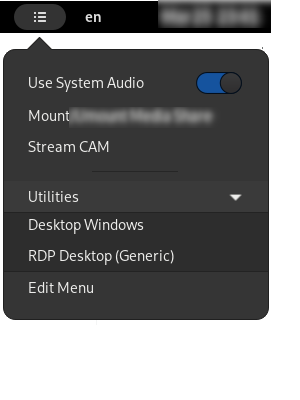
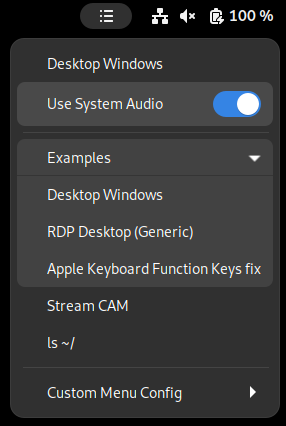
v5 - Add Config Reload, Settings Menu, Log View Spawning, Graceful JSON Parse Error Handling

diff --git a/custom-menu-panel@AndreaBenini/extension.js b/custom-menu-panel@AndreaBenini/extension.js
@@ -24,7 +24,7 @@
 /* exported init */
 
 const GETTEXT_DOMAIN = 'custom-menu-panel';
-const CONFIGURATION_FILE = '/.entries.json';
+const CONFIGURATION_FILE = '.entries.json';
 
 const { GObject, St } = imports.gi;
 
@@ -46,38 +46,94 @@ const LOGGER_INFO       = 0;
 const LOGGER_WARNING    = 1;
 const LOGGER_ERROR      = 2;
 
-
 const Indicator = GObject.registerClass(
-    class Indicator extends PanelMenu.Button {
-        _init() {
-            super._init(0.0, _('Custom Menu Panel Indicator'));
-            this.add_child(new St.Icon({
-                icon_name: 'view-list-bullet-symbolic',
-                style_class: 'system-status-icon',
-            }));
-            this._loadSetup();
-        }
+	class Indicator extends PanelMenu.Button {
+		_init() {
+				super._init(0.0, _('Custom Menu Panel Indicator'));
+				this.add_child(new St.Icon({
+						icon_name: 'view-list-bullet-symbolic',
+						style_class: 'system-status-icon',
+				}));
+				this._loadSetup();
+		}
 
-        /**
-         * LOAD Program settings from .entries.json file
-         */
-        _loadSetup() {
-            this.menu.removeAll();
-            // Loading configuration from file
-            this.configLoader = new Config.Loader();
-            try {
-                this.configLoader.loadConfig(GLib.get_home_dir() + CONFIGURATION_FILE);         // $HOME/.entries.json
-            } catch(e) {
-                this.configLoader.saveDefaultConfig(GLib.get_home_dir() + CONFIGURATION_FILE);  // create default entries
-            }
-            // Build the menu
-            let i = 0;
-            for (let i in this.configLoader.entries) {
-                let item = this.configLoader.entries[i].createItem();
-                this.menu.addMenuItem(item);
-            }
-        } /**/
-    }
+		/**
+		 * LOAD Program settings from .entries.json file
+		 */
+		_loadSetup() {
+				this.menu.removeAll();
+				this.configLoader = new Config.Loader();
+				// Check if config file does NOT exist in home directory
+				let configFileExistenceTestResult = GLib.file_test(GLib.get_home_dir() + '/' + CONFIGURATION_FILE, GLib.FileTest.EXISTS);
+				if (configFileExistenceTestResult == 0) {
+					log(`${Me.metadata.name}: Config File does not exist at path: ` + GLib.get_home_dir() + '/' + CONFIGURATION_FILE);
+					log(`${Me.metadata.name}: Creating default configuration file`);
+					try { // Create a configuration file with default entries
+						this.configLoader.saveDefaultConfig(GLib.get_home_dir() + '/' + CONFIGURATION_FILE);
+					}
+					catch(e) {
+						logError(e,`${Me.metadata.name}: Error occurred while creating default config file at: ` + GLib.get_home_dir() + '/' + CONFIGURATION_FILE);
+					}
+				}
+				else { // Config file found
+					log(`${Me.metadata.name}: Config File Found at: ` + GLib.get_home_dir() + '/' + CONFIGURATION_FILE);
+				}
+				try { // Test config file for parsing errors
+					var configErr = 0;
+					this.configLoader.loadConfig(GLib.get_home_dir() + '/' + CONFIGURATION_FILE); // $HOME/.entries.json
+				} catch(e) {
+					logError(e,`${Me.metadata.name}: Config File Parse Error. Edit Config File and Inspect Syntax. Path: ` + GLib.get_home_dir() + '/' + CONFIGURATION_FILE);
+					configErr = 1;
+				}
+				if (configErr == 0) { // Config file parse successful. Build the menu based on the configuration file, and add a submenu for configuration editing, reloading the config file and viewing the log.
+					let i = 0;
+					for (let i in this.configLoader.entries) {
+							let item = this.configLoader.entries[i].createItem();
+							this.menu.addMenuItem(item);
+					}
+					this.menu.addMenuItem(new PopupMenu.PopupSeparatorMenuItem());
+					let subMenu = new PopupMenu.PopupSubMenuMenuItem('Custom Menu Config');
+					this.menu.addMenuItem(subMenu);
+					subMenu.menu.addAction('[Edit Config File]', e => this.EditConfigFile());
+					subMenu.menu.addAction('[Reload Configuration File]', e => this._loadSetup())
+					subMenu.menu.addAction('[View Log in Journalctl]', e => this.ViewGnomeLog());
+				}
+				else // Config file parse error. Display 'Config File Parse Error . . .' as the title of a submenu containing items for configuration editing, reloading the config file and viewing the log.
+				{
+					let subMenu = new PopupMenu.PopupSubMenuMenuItem('Config File Parse Error . . .');
+					this.menu.addMenuItem(subMenu);
+					subMenu.menu.addAction('[Edit Config File]', e => this.EditConfigFile());
+					subMenu.menu.addAction('[Reload Configuration File]', e => this._loadSetup())
+					subMenu.menu.addAction('[View Log in Journalctl]', e => this.ViewGnomeLog());
+					this.menu.connect('open-state-changed', Lang.bind(this, function() {
+						subMenu.setSubmenuShown(true);
+					}));
+				}
+		}
+		ViewGnomeLog() {
+			let termArg = '--';
+			if (this.configLoader.terminalExecutable == "tilix") {
+				termArg = '-e';
+			}
+			const command = this.configLoader.terminalExecutable + ' ' + termArg + ' ' + "bash -i -c \'journalctl -f -o cat /usr/bin/gnome-shell\'";
+			try {
+				Config._generalSpawn(command, this.configLoader.__env, 'Gnome-Shell Log');
+			}
+			catch (e) {
+				logError(e,`${Me.metadata.name}: Viewing Gnome-Shell Log in ${terminalExecutable} failed`);
+			}
+		}
+		 EditConfigFile() {
+			//const command = [this.configLoader.editorExecutable, GLib.get_home_dir() + '/' + CONFIGURATION_FILE];
+			const command = this.configLoader.editorExecutable + ' ' + GLib.get_home_dir() + '/' + CONFIGURATION_FILE;
+			try {
+				Config._generalSpawn(command, this.configLoader.__env, 'Edit Custom Menu Config File');
+			}
+			catch (e) {
+				logError(e,`${Me.metadata.name}: Attempt to edit the configuration file in ${editorExecutable} failed`);
+			}
+		}
+	}
 );
 
 

diff --git a/custom-menu-panel@AndreaBenini/config.js b/custom-menu-panel@AndreaBenini/config.js
@@ -65,7 +65,7 @@ const DerivedEntry = new Lang.Class({
     createInstance: function(addit_prop) {
         let cls = type_map[this.base];
         if(!cls) throw new Error("Bad base class.");
-        if(cls.createInstance) throw new Error("Not allowed to derive from dervied types");
+        if(cls.createInstance) throw new Error("Not allowed to derive from derived types");
 
         for(let rp in this.prop)
             addit_prop[rp] = this.prop[rp];
@@ -149,7 +149,7 @@ function realPipeOpen(cmdline, env, callback) {
 
     getLogger().info("Spawned " + cmdline);
 
-    // log(`Spawning ${cmdline}`);   TODO: BEN
+    // log(`${Me.metadata.name}: Spawning ${cmdline}`);   TODO: BEN
     return proc.get_identifier();
 }
 
@@ -301,6 +301,7 @@ const LauncherEntry = new Lang.Class({
     },
 });
 
+
 const SubMenuEntry = new Lang.Class({
     Name: 'SubMenuEntry',
     Extends: Entry,
@@ -434,6 +435,8 @@ var Loader = new Lang.Class({
          * Refer to README file for detailed config file format.
          */
         this.entries = []; // CAUTION: remove all entries.
+        this.editorExecutable = "gedit"; // Default
+        this.terminalExecutable = "gnome-terminal"; // Default
 
         let config_parser = new Json.Parser();
         config_parser.load_from_file(filename);
@@ -453,6 +456,12 @@ var Loader = new Lang.Class({
             let entry_prop = conf.entries[conf_i];
             this.entries.push(createEntry(entry_prop));
         }
+       if (conf.editorExecutable != undefined) {
+				 this.editorExecutable = conf.editorExecutable;
+			 }
+			 if (conf.terminalExecutable != undefined) {
+        this.terminalExecutable = conf.terminalExecutable;
+			}
     },
 
 
@@ -460,14 +469,16 @@ var Loader = new Lang.Class({
         // Write default config
         const PERMISSIONS_MODE = 0o640;
         const jsonString = JSON.stringify({
-            "_homepage_": "https://github.com/andreabenini/gnome-plugin.custom-menu-panel",
-            "_examples_": "https://github.com/andreabenini/gnome-plugin.custom-menu-panel/tree/main/examples",
-            "entries": [ {
-                "type": "launcher",
-                "title": "Edit menu",
-                "command": "gedit $HOME/.entries.json"
-            } ]
-        }, null, 4);
+					"_homepage_": "https://github.com/andreabenini/gnome-plugin.custom-menu-panel",
+          "_examples_": "https://github.com/andreabenini/gnome-plugin.custom-menu-panel/tree/main/examples",
+          "editorExecutable": "gedit",
+          "terminalExecutable": "gnome-terminal",
+          "entries": [ {
+						"type": "launcher",
+						"title": "Example: List Home Directory in Terminal",
+						"command": "gnome-terminal -- bash -i -c 'cd ~/; command ls -aF --color=auto; bash'"
+					} ]
+        }, null, 1);
         let fileConfig = Gio.File.new_for_path(filename);
         if (GLib.mkdir_with_parents(fileConfig.get_parent().get_path(), PERMISSIONS_MODE) === 0) {
             fileConfig.replace_contents(jsonString, null, false, Gio.FileCreateFlags.REPLACE_DESTINATION, null);
@@ -479,5 +490,5 @@ var Loader = new Lang.Class({
             Main.notify(_('Cannot create and load file: '+filename));
         }
     }, /**/
-
+		
 });

diff --git a/examples/README.md b/examples/README.md
@@ -4,14 +4,14 @@ The file in your computer **must** be called `$HOME/.entries.json`
 
 
 ### Usage
-- Create a `.entries.json` file and save it in your home directory (**_$HOME/.entries.json_**)
-- Edit the file and write your favorite commands there, you can take a look at this directory for some real
-    examples. It's a `.json` file so respect syntax and commands accordingly
-- If you're editing the file inside a Gnome environment you need to reload the plugin in order to update your
-    changes. Disable/Enable the plugin, restart it with _gnome_extensions_ or restart the windows environment
-    to effectively reload your changes (Alt+F2, 'r', Enter).
+- An `.entries.json` file will automatically be created within your $HOME directory, if it does not already exist. (**_$HOME/.entries.json_**).
 
+- Edit the file by clicking [Edit Config File] within the Custom Menu Config submenu and add your favorite commands, referencing the .entries.json file in this examples directory for ideas. It is a `.json` file so respect syntax and commands accordingly. For example, use commas after each item, but not on the last item.
 
-_Feel free to request features or write issues if you'd like to cover specific aspects of it_
+- Reload the configuration file for changes to take effect by choosing *[Reload Configuration File]* from the *Custom Menu Config* submenu. Alternatively, disable/enable the plugin within the Extensions app or restart the entire Gnome environment using (Alt+F2, 'r', Enter).
 
+- If you make a mistake in the .entries file and a JSON parse error occurs, a submenu entitled *'Config File Parse Error . . . '* is displayed in the custom menu and automatically expands to show *[Edit Config File]*, *[Reload Config File]* and *[View Log in Journalctl]*.
 
+- The optional constants, 'editorExecutable', defaulted to 'gedit' and 'terminalExecutable', defaulted to 'gnome-terminal' are currently only used for the permanent *Custom Menu Config* submenu items , where *[Edit Config File]* uses 'editorExecutable' and *[View Log in Journalctl]* uses 'terminalExecutable'. These have been tested with Geany and Tilix, respectively.
+
+_Feel free to request features or document issues_

diff --git a/README.md b/README.md
@@ -6,13 +6,17 @@ Custom menu on Gnome Top Bar with your favorite program shortcuts.
 
 
 ### Usage:
-- Edit `.entries.json` to match your needs
-- Copy `.entries.json` file to `$HOME/`  
+- An `.entries.json` file will automatically be created within your $HOME directory, if it does not already exist. (**_$HOME/.entries.json_**).
 
-If you edit `.entries.json` while running gnome please ensure to reload Gnome Window Manager (Alt+F2, "r")  
-Tested with: Arch Linux, X11, Gnome v42.0.0.  
-Widgets manual below describe available options, in the `examples` directory you can see some tests you can
-pick for your setup
+- Edit the file by clicking [Edit Config File] within the Custom Menu Config submenu and add your favorite commands, referencing the .entries.json file in this examples directory for ideas. It is a `.json` file so respect syntax and commands accordingly. For example, use commas after each item, but not on the last item.
+
+- Reload the configuration file for changes to take effect by choosing *[Reload Configuration File]* from the *Custom Menu Config* submenu. Alternatively, disable/enable the plugin within the Extensions app or restart the entire Gnome environment using (Alt+F2, 'r', Enter).
+
+- If you make a mistake in the .entries file and a JSON parse error occurs, a submenu entitled *'Config File Parse Error . . . '* is displayed in the custom menu and automatically expands to show *[Edit Config File]*, *[Reload Config File]* and *[View Log in Journalctl]*.
+
+- The optional constants, 'editorExecutable', defaulted to 'gedit' and 'terminalExecutable', defaulted to 'gnome-terminal' are currently only used for the permanent *Custom Menu Config* submenu items , where *[Edit Config File]* uses 'editorExecutable' and *[View Log in Journalctl]* uses 'terminalExecutable'. These have been tested with Geany and Tilix, respectively.
+
+The widgets manual below describe available entry types, and the .entries.json file in the `examples` directory showcases usage thereof.
 
 
 ---

diff --git a/custom-menu-panel@AndreaBenini/README.md b/custom-menu-panel@AndreaBenini/README.md
@@ -1,11 +1,8 @@
 # Gnome Custom Menu Panel
 Custom menu on Gnome Top Bar with your favorite program shortcuts.
-Basically a rewrite of an older application (QuickToggler) but compatible with gnome 41.
+Basically a rewrite of an older application (QuickToggler) but compatible with Gnome 42.
 
 ---
-
-A Major rewrite is in progress, this is the first version it's barely working but there's nothing more.
-Documentation is still a work in progress (see examples and .entries.json on github).
 
 > https://github.com/andreabenini/gnome-plugin.custom-menu-panel
 
